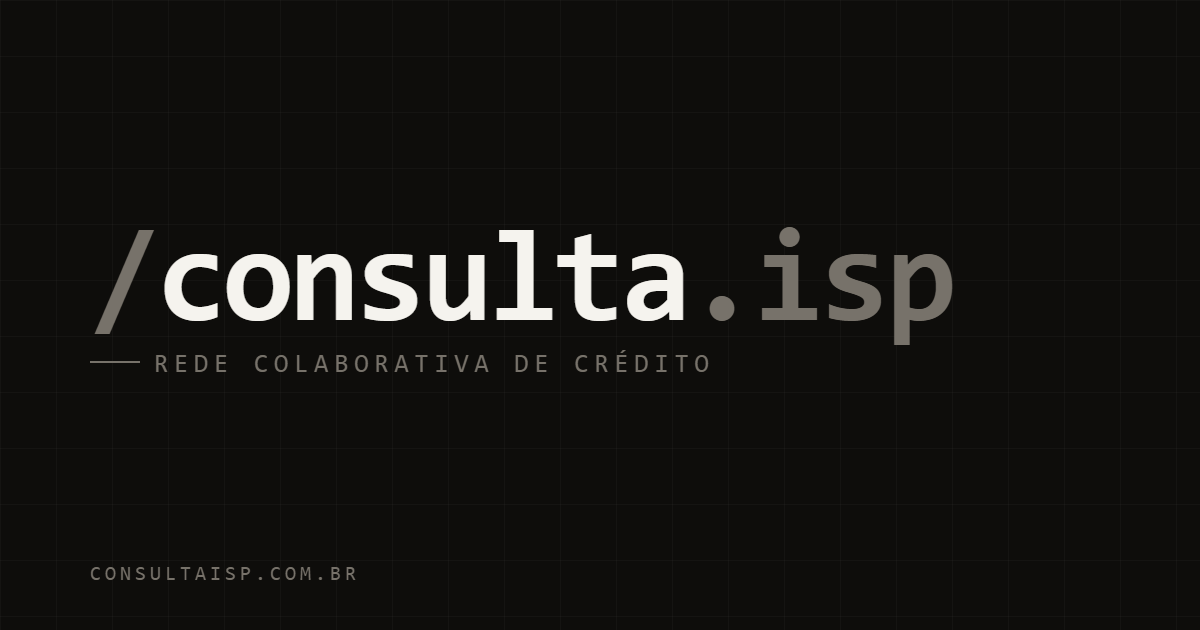
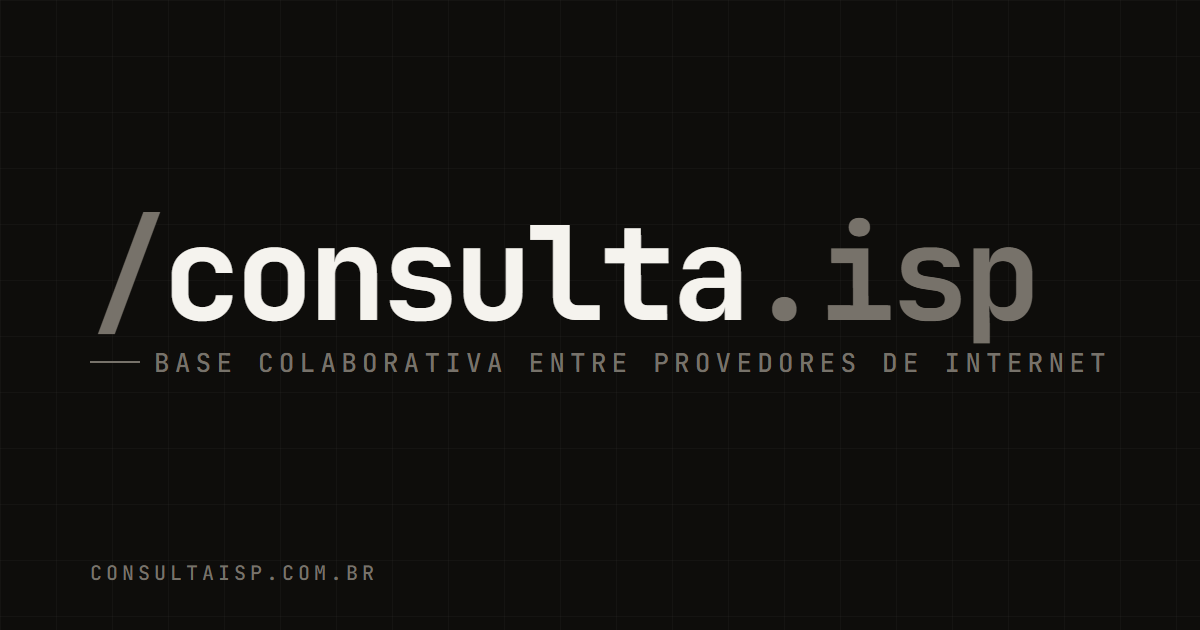
fix(marca): "base colaborativa entre provedores de internet" no lugar de "rede colaborativa de crédito"
O dono viu a prévia do link no WhatsApp: "Rede colaborativa de crédito, está
dando a entender que é curso, crédito de dinheiro, não de análise da situação
do cliente". A frase dele: "O Consulta ISP é a base colaborativa entre
provedores de internet."

- Prévia do link (og:title) = a frase do dono; og:description continua a de
  antes (quem não vai pagar, histórico, equipamentos retidos, decisão).
- Imagem da prévia: o 11-og-image.svg do kit com a tagline nova, renderizado
  no Chrome headless com a JetBrains Mono (o PNG anterior tinha caído numa
  monoespaçada do sistema). Endereço novo og-image-v3.png — o WhatsApp guarda a
  prévia pelo endereço — e og-image.png/-v2.png passam a servir a arte nova.
  Fonte versionada em docs/marca/og-image.svg; renderizá-la dá o mesmo arquivo.
- <title>, manifest, assinatura da plataforma (MARCA_PLATAFORMA e o padrão do
  client, que vai no rodapé do e-mail), rodapés do login e da landing, o
  fallback do white label e os placeholders da linha de apoio da marca.
- Fica como estava: a descrição fiscal da NFS-e e "créditos" como unidade de
  consulta.

Trava: marca.test.ts falha se "de crédito" voltar ao <head>, ao manifest ou
à assinatura, confere o og:title e que as três imagens são o mesmo arquivo.

Testes: 304 arquivos / 5994 verdes (vitest exit 0); tsc em 57.

diff --git a/client/index.html b/client/index.html
@@ -8,7 +8,12 @@
          aqui e a marca da plataforma, e continua servido byte a byte igual
          quando o host e o dela — a injecao nem roda nesse caso. -->
     <!-- marca:inicio -->
-    <title>Consulta ISP — rede colaborativa de crédito para provedores de internet</title>
+    <!-- A frase da marca e do dono (11/09/2026): "O Consulta ISP e a base
+         colaborativa entre provedores de internet." "Rede colaborativa de
+         credito" saiu de todo lugar em que a plataforma se apresenta: lida
+         solta, na previa do WhatsApp, soava a curso ou a emprestimo de
+         dinheiro, e o produto e a analise da situacao do cliente. -->
+    <title>Consulta ISP — base colaborativa entre provedores de internet</title>
     <meta name="description" content="Consulte o CPF, o CNPJ ou o endereço na rede colaborativa de provedores antes de instalar: histórico de inadimplência, equipamentos retidos e sugestão de decisão, ao vivo no ERP de cada provedor." />
     <!-- Icones da marca /consulta.isp (brand kit de 10/09/2026). O SVG e o "/c"
          do kit com os glifos CONVERTIDOS EM CONTORNO: o original desenha texto
@@ -29,15 +34,17 @@
     <meta name="theme-color" content="#0E0D0B" />
 
     <!-- Previa quando alguem compartilha o link (WhatsApp, LinkedIn): a imagem
-         e a do kit, 1200x630. -->
+         e a 11-og-image.svg do kit, 1200x630, com a tagline nova — fonte em
+         docs/marca/og-image.svg. O "-v3" segue a regra dos icones acima: o
+         WhatsApp guarda a previa pelo endereco da imagem. -->
     <meta property="og:type" content="website" />
     <meta property="og:site_name" content="Consulta ISP" />
-    <meta property="og:title" content="/consulta.isp — rede colaborativa de crédito para provedores de internet" />
+    <meta property="og:title" content="O Consulta ISP é a base colaborativa entre provedores de internet" />
     <meta property="og:description" content="Saiba quem não vai pagar antes de instalar. Consulta ao vivo no ERP de toda a rede de provedores: histórico de inadimplência, equipamentos retidos e sugestão de decisão." />
-    <meta property="og:image" content="https://consultaisp.com.br/marca/og-image-v2.png" />
+    <meta property="og:image" content="https://consultaisp.com.br/marca/og-image-v3.png" />
     <meta property="og:image:width" content="1200" />
     <meta property="og:image:height" content="630" />
-    <meta property="og:image:alt" content="/consulta.isp — rede colaborativa de crédito" />
+    <meta property="og:image:alt" content="/consulta.isp — base colaborativa entre provedores de internet" />
     <meta property="og:url" content="https://consultaisp.com.br/" />
     <meta property="og:locale" content="pt_BR" />
     <meta name="twitter:card" content="summary_large_image" />

diff --git a/client/src/components/marca.test.ts b/client/src/components/marca.test.ts
@@ -131,3 +131,44 @@ describe("tela de login", () => {
     expect(login).not.toMatch(/Uptime</);
   });
 });
+
+describe("a frase da marca (dono, 11/09/2026)", () => {
+  /**
+   * "Rede colaborativa de crédito", solta na prévia do WhatsApp, lia como curso
+   * ou empréstimo de dinheiro — e o produto é a análise da situação do cliente.
+   * A frase do dono vira o título da prévia; "de crédito" não volta a nada em
+   * que a plataforma se apresenta.
+   */
+  const FRASE = "O Consulta ISP é a base colaborativa entre provedores de internet";
+  const conteudo = (texto: string, re: RegExp) => texto.match(re)?.[1] ?? "";
+
+  it("a prévia do link leva a frase do dono como título", () => {
+    expect(conteudo(indexHtml, /<meta property="og:title" content="([^"]*)"/)).toBe(FRASE);
+  });
+
+  it("nada em que a plataforma se apresenta diz \"de crédito\"", () => {
+    const apresentacao = {
+      titulo: conteudo(indexHtml, /<title>([^<]*)<\/title>/),
+      descricao: conteudo(indexHtml, /<meta name="description" content="([^"]*)"/),
+      ogTitulo: conteudo(indexHtml, /<meta property="og:title" content="([^"]*)"/),
+      ogDescricao: conteudo(indexHtml, /<meta property="og:description" content="([^"]*)"/),
+      ogImagemAlt: conteudo(indexHtml, /<meta property="og:image:alt" content="([^"]*)"/),
+      manifest: String(manifest.description ?? ""),
+      assinaturaDoServidor: conteudo(ler("server/services/marca.service.ts"), /assinatura:\s*"([^"]*)"/),
+      assinaturaDoClient: conteudo(ler("client/src/lib/marca.ts"), /assinatura:\s*"([^"]*)"/),
+    };
+    for (const [onde, texto] of Object.entries(apresentacao)) {
+      expect(texto.length, `${onde}: a leitura voltou vazia`).toBeGreaterThan(0);
+      expect(texto, onde).not.toMatch(/de cr[eé]dito/i);
+    }
+  });
+
+  /** A prévia é guardada pelo endereço da imagem: o nome antigo serve a arte nova. */
+  it("a imagem da prévia de nome antigo é a mesma arte da versionada", () => {
+    const bytes = (rel: string) => readFileSync(join(RAIZ, rel));
+    const atual = bytes("client/public/marca/og-image-v3.png");
+    expect(indexHtml).toContain("/marca/og-image-v3.png");
+    expect(bytes("client/public/marca/og-image-v2.png").equals(atual)).toBe(true);
+    expect(bytes("client/public/marca/og-image.png").equals(atual)).toBe(true);
+  });
+});

diff --git a/client/src/pages/auth/login.tsx b/client/src/pages/auth/login.tsx
@@ -162,7 +162,7 @@ function LoginDoRevendedor() {
                 99.9% de uptime) SAIRAM: nenhum dos dois e medido pelo sistema, e a
                 regra do dono e so dado real e verificavel. */}
             <p className="font-mono text-[11px] font-medium uppercase tracking-[0.16em] text-[var(--text-muted)] mb-5">
-              Rede colaborativa de crédito
+              Base colaborativa entre provedores
             </p>
 
             <h1 className="font-display text-3xl lg:text-4xl font-light leading-tight tracking-[-0.025em] mb-4 [text-wrap:balance]">
@@ -405,7 +405,7 @@ function LoginDoRevendedor() {
       </div>
 
       <footer className="text-center py-4 text-[var(--color-muted)] text-xs">
-        2026 {marca.nomeProduto} — análise de crédito para provedores de internet
+        2026 {marca.nomeProduto} — base colaborativa entre provedores de internet
       </footer>
     </div>
   );

diff --git a/client/src/pages/auth/login-plataforma.tsx b/client/src/pages/auth/login-plataforma.tsx
@@ -443,7 +443,7 @@ export default function LoginDaPlataforma() {
 
         {/* ── RODAPÉ ─────────────────────────────────────────────── */}
         <footer className="page-footer">
-          <span>© {new Date().getFullYear()} · /consulta.isp · Rede colaborativa de crédito para provedores</span>
+          <span>© {new Date().getFullYear()} · /consulta.isp · Base colaborativa entre provedores de internet</span>
           <div className="footer-links">
             <a href="/lgpd" onClick={irParaRota("/lgpd")}>Privacidade</a>
             <a href={WHATSAPP_SUPORTE} target="_blank" rel="noopener noreferrer">Suporte</a>

diff --git a/client/src/pages/admin/admin-marcas.tsx b/client/src/pages/admin/admin-marcas.tsx
@@ -786,7 +786,7 @@ export default function AdminMarcasPage() {
                            onChange={e => setForm(f => ({ ...f, slug: slugificar(e.target.value) }))} />
                   </Campo>
                   <Campo rotulo="linha de apoio" className="sm:col-span-2">
-                    <Input value={form.assinatura} placeholder="Crédito para provedores" className={CONTROLE_CAMPO}
+                    <Input value={form.assinatura} placeholder="Base colaborativa entre provedores" className={CONTROLE_CAMPO}
                            onChange={e => setForm(f => ({ ...f, assinatura: e.target.value }))} />
                   </Campo>
                 </div>

diff --git a/server/services/email-ui.test.ts b/server/services/email-ui.test.ts
@@ -166,7 +166,8 @@ describe("envelope", () => {
    */
   it("a plataforma leva o wordmark /consulta.isp em texto, com a assinatura como tagline", () => {
     expect(html).toContain(`<span style="color:#77726A;">/</span>consulta<span style="color:#77726A;">.isp</span>`);
-    expect(html).toContain("Rede colaborativa de crédito");
+    expect(html).toContain("Base colaborativa entre provedores de internet");
+    expect(html).not.toMatch(/de crédito/i);
     expect(html).toMatch(/font-family:'JetBrains Mono',[^"]*monospace/);
     expect(html).not.toContain("<img");
   });

diff --git a/client/src/pages/revenda/marca.tsx b/client/src/pages/revenda/marca.tsx
@@ -364,7 +364,7 @@ export default function MinhaMarca() {
               />
               <div className="sm:col-span-2">
                 <Campo rotulo="linha de apoio">
-                  <Input {...campo("assinatura")} placeholder="Crédito para provedores" className={CONTROLE_CAMPO} maxLength={120} />
+                  <Input {...campo("assinatura")} placeholder="Base colaborativa entre provedores" className={CONTROLE_CAMPO} maxLength={120} />
                 </Campo>
                 <ProblemaDoCampo>{problemas.assinatura}</ProblemaDoCampo>
               </div>

diff --git a/server/services/email-ui.ts b/server/services/email-ui.ts
@@ -241,7 +241,7 @@ export function envelope(
   const nome = esc(marca.nomeProduto);
   const url = urlDaMarca(marca);
   const inicial = esc(marca.nomeProduto.trim().charAt(0).toUpperCase() || "C");
-  const assinatura = esc(marca.assinatura || "Análise de crédito para provedores de internet");
+  const assinatura = esc(marca.assinatura || "Base colaborativa entre provedores de internet");
 
   // PLATAFORMA: o wordmark /consulta.isp em texto, com a assinatura no traje da
   // tagline do kit. REVENDEDOR: quadrado com a inicial, sempre; a imagem entra

diff --git a/server/marca-html.test.ts b/server/marca-html.test.ts
@@ -28,7 +28,7 @@ const TEMPLATE = `<!DOCTYPE html>
 
 const PLATAFORMA: MarcaResolvida = {
   origem: "plataforma", contexto: "plataforma", marcaId: null,
-  nomeProduto: "Consulta ISP", assinatura: "Rede colaborativa de crédito",
+  nomeProduto: "Consulta ISP", assinatura: "Base colaborativa entre provedores de internet",
   logoUrl: null, faviconUrl: "/marca/favicon-v2.svg", cores: null,
   suporteEmail: null, suporteWhatsapp: null, site: "https://consultaisp.com.br",
   responsavelRazaoSocial: null, responsavelCnpj: null,

diff --git a/server/marca-html.ts b/server/marca-html.ts
@@ -208,7 +208,7 @@ function blocoDeScript(marca: MarcaResolvida): string {
 function blocoDeCabecalho(marca: MarcaResolvida): string {
   const nome = escaparHtml(marca.nomeProduto);
   const descricao = escaparHtml(
-    marca.assinatura || "Analise de credito para provedores de internet"
+    marca.assinatura || "Base colaborativa entre provedores de internet"
   );
   const favicon = caminhoInterno(marca.faviconUrl) ?? "/marca/favicon-v2.svg";
   const logo = caminhoInterno(marca.logoUrl);

diff --git a/client/src/pages/public/landingpage.tsx b/client/src/pages/public/landingpage.tsx
@@ -933,7 +933,7 @@ export default function LandingPage() {
               </div>
             </div>
             <div className="footer-bottom">
-              /consulta.isp — Plataforma colaborativa de análise de crédito para provedores de internet do Brasil
+              /consulta.isp — A base colaborativa entre provedores de internet do Brasil
             </div>
           </div>
         </footer>

diff --git a/server/services/marca.service.ts b/server/services/marca.service.ts
@@ -74,7 +74,7 @@ export const MARCA_PLATAFORMA: MarcaResolvida = {
   dominio: MAIN_DOMAIN,
   dominioAtivo: true,
   nomeProduto: "Consulta ISP",
-  assinatura: "Rede colaborativa de crédito",
+  assinatura: "Base colaborativa entre provedores de internet",
   logoUrl: null,
   faviconUrl: "/marca/favicon-v2.svg",
   cores: null,
